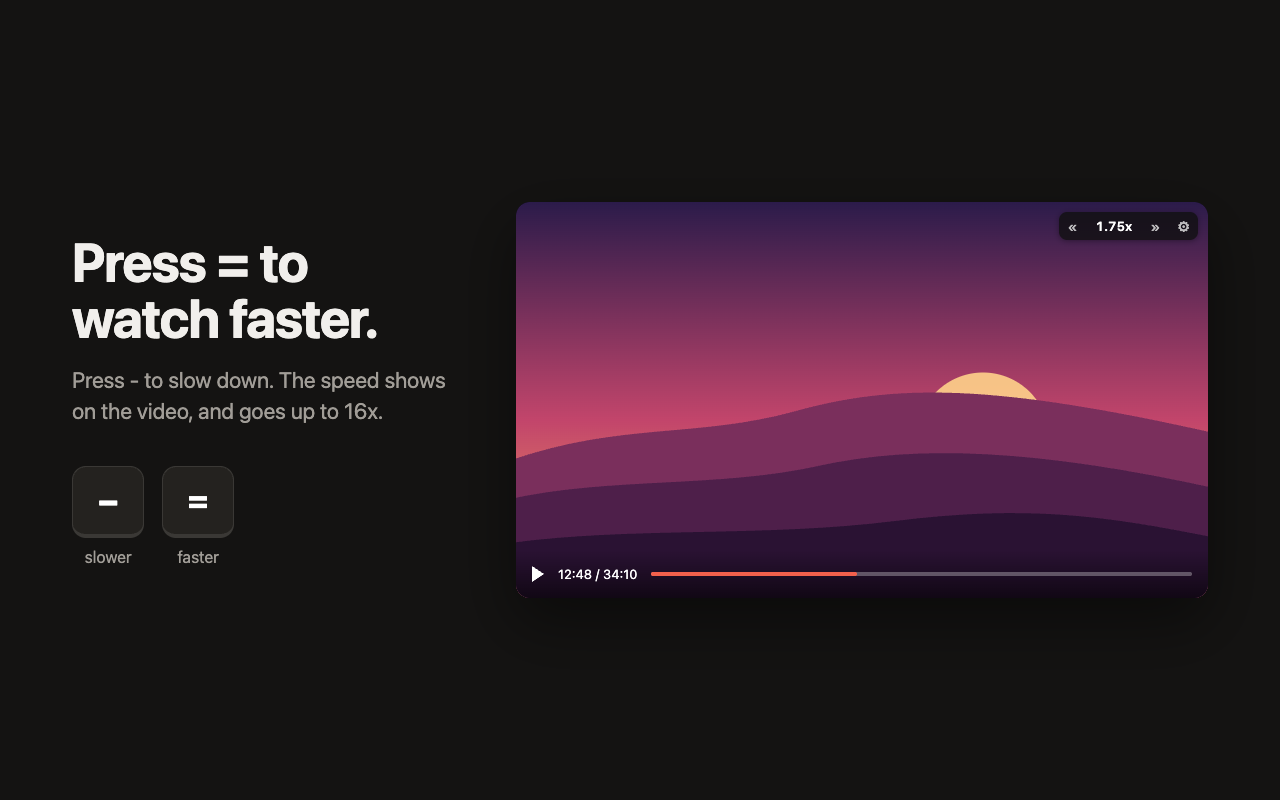
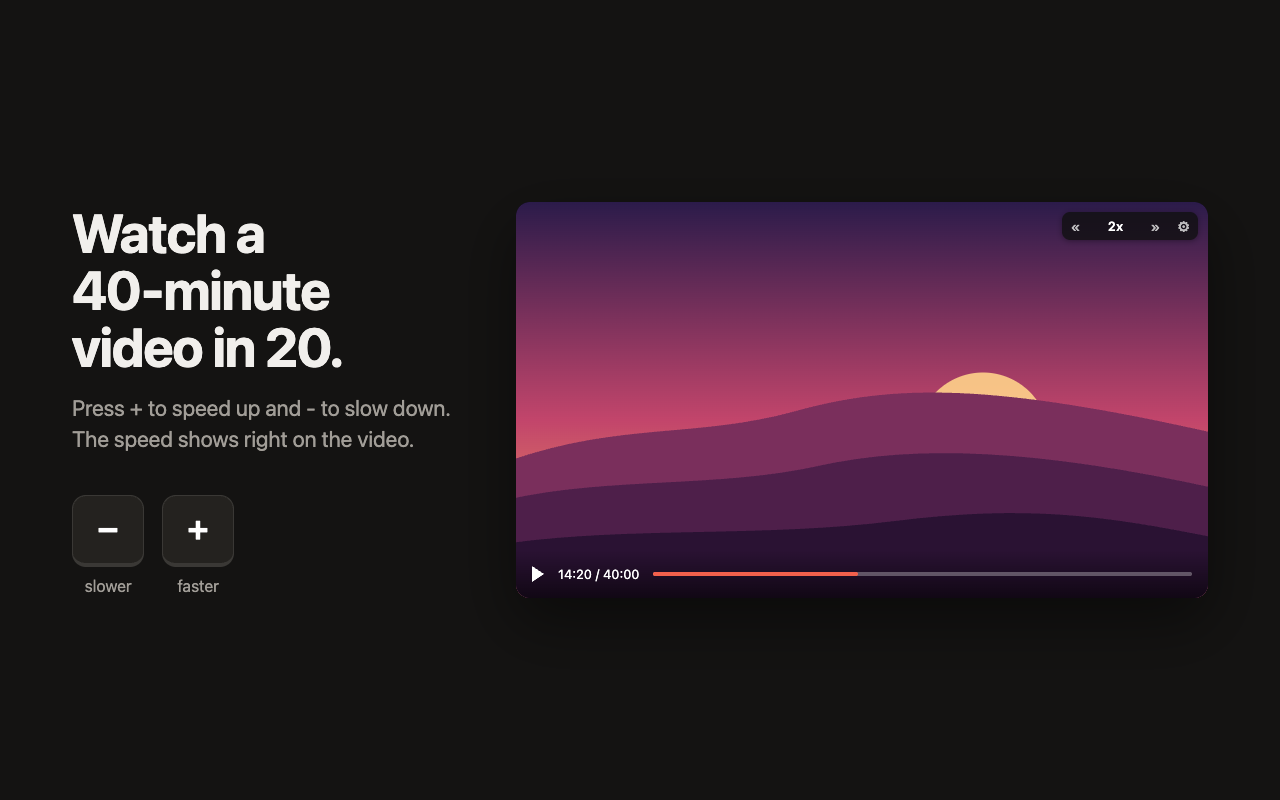
docs: rewrite the store copy and art around watching faster (#16)
* docs: rewrite the store copy and art around watching faster

Lead with the outcome ("watch videos in half the time") instead of the key, name the key as +,
make the time-saved total the proof in screenshot 2, and pitch working on sites with no speed
menu. Regenerate the screenshots and promo tile, and update the README and the copy notes.

* docs: address review of the store copy

Say two keys, not one. Drop "what people use it for" since there are no users to cite yet, call
the 0.25x step a default, and fix an orphaned word in screenshot 2.

---------

diff --git a/CHROMEWEBSTORE.md b/CHROMEWEBSTORE.md
@@ -1,6 +1,6 @@
 # Store listings: Video Speed Tool
 
-Last updated: 2026-10-24
+Last updated: 2026-10-27
 
 This file holds everything the Chrome Web Store and Firefox Add-ons (AMO) dashboards ask for. Both stores take the same package from `npm run build`.
 
@@ -18,17 +18,20 @@ This file holds everything the Chrome Web Store and Firefox Add-ons (AMO) dashbo
 
 ### Why this copy
 
-- The short description gives the two keys before anything else. Someone scanning search results learns how to use it before they install, so trying it takes no effort.
-- "Works on YouTube and every other site" answers the first question a YouTube user has, and widens the audience past YouTube in the same line.
-- "Up to 16x" is a number someone can check, instead of "fast" or "powerful".
-- The description explains the "all websites" permission before Chrome's install warning does. An unexplained broad permission is the most likely reason someone backs out of the install.
+- Lead with the outcome, not the key. People install this to get through a video faster, so "half the time" comes first and "one key" explains how. The key itself appears in the screenshots, where it reads as proof of how little effort it takes.
+- "A 40-minute lecture in 20" is a picture someone can check against their own watch list. It does more than "save time".
+- Name the key as +, the label on the key cap. Calling it = reads as a typo. The extension accepts it with or without Shift, so the copy never needs to explain Shift beyond one line.
+- The time-saved total is the strongest proof the product offers, and it's a number the reader will watch grow. Screenshot 2 leads with it instead of with the settings.
+- "Even on sites with no speed menu" names the gap the browser leaves. On YouTube, people already have a slower way, the menu. Elsewhere they often have none.
+- "Free, no tracking" sits in the short description because a broad-permission extension has to earn trust before Chrome's install warning appears. The description repeats it, then explains the "all websites" permission in plain words.
 - "Audio may cut out above 4x" admits a limit up front. Saying it first beats a one-star review that says it later.
-- "YouTube" appears only as the place where it works. It's never in the name or the icon, and the screenshots use made-up players. Store policy flags names and art that suggest a partnership with another brand.
+- "YouTube" appears only as a place where it works. It's never in the name or the icon, and the screenshots use made-up players. Store policy flags names and art that suggest a partnership with another brand.
+- No ratings, user counts or testimonials yet. Add real ones once the listings have them. Don't invent them.
 
 Alternatives for the short description, if the first one tests poorly:
 
-- "Speed up any video with one key: = goes faster, - goes slower. Up to 16x, on YouTube and every other site." Leads with the outcome instead of the action.
-- "Watch videos faster with one key. Press = to speed up and - to slow down, on YouTube and every site with video." Softer, with no number.
+- "Finish a 40-minute lecture in 20. One key speeds up any video, on YouTube and every other site. Free, no tracking." More concrete, aimed at students.
+- "Get through long videos faster. Press + to speed up any video on YouTube or any other site, up to 16x. Free, no tracking." Names the key for people who search by how it works.
 
 ## Graphics
 
@@ -37,9 +40,9 @@ All files are in `store/`. Regenerate them with `npm run store-assets` (screensh
 | Asset | Size | File | Store |
 |---|---|---|---|
 | Store icon | 128x128, 96x96 artwork with transparent padding | `store/icon-128.png` | Chrome |
-| Screenshot 1: the keys and the control | 1280x800 | `store/screenshot-1.png` | Both |
-| Screenshot 2: the settings page | 1280x800 | `store/screenshot-2.png` | Both |
-| Screenshot 3: a course site, speed-only control at the bottom left | 1280x800 | `store/screenshot-3.png` | Both |
+| Screenshot 1: "Watch a 40-minute video in 20", the keys and the control at 2x | 1280x800 | `store/screenshot-1.png` | Both |
+| Screenshot 2: "See the hours you've saved", the settings page | 1280x800 | `store/screenshot-2.png` | Both |
+| Screenshot 3: "Even on sites with no speed menu", a course site with a speed-only control | 1280x800 | `store/screenshot-3.png` | Both |
 | Small promo tile | 440x280 | `store/promo-440x280.png` | Chrome |
 
 Firefox takes its icon from the package, so it needs no separate upload.
@@ -90,7 +93,7 @@ Settings go through Chrome's own sync to the user's own account. The developer n
 
 Both stores have a field for this. Paste:
 
-> No build step: the uploaded files are the source. To test, open any page with a video, for example a YouTube video, and press = and - to change the speed. Hover over the video to see the speed control. Click the toolbar icon to open the settings.
+> No build step: the uploaded files are the source. To test, open any page with a video, for example a YouTube video, and press + and - to change the speed. Hover over the video to see the speed control. Click the toolbar icon to open the settings.
 
 ## Known issues and review risks
 

diff --git a/README.md b/README.md
@@ -1,9 +1,10 @@
 # Video Speed Tool
 
-A Chrome and Firefox extension for changing playback speed on YouTube and any other HTML5 video.
+Watch videos in half the time. A Chrome and Firefox extension that puts playback speed on two
+keys, + and -, on YouTube and every other site with an HTML5 video, including ones with no speed menu.
 It's a clone of [Youtube Playback Speed Control](https://chromewebstore.google.com/detail/youtube-playback-speed-co/hdannnflhlmdablckfkjpleikpphncik).
 
-- `=` speeds up and `-` slows down, no Shift needed. Both keys can be rebound, and the step defaults to 0.25.
+- `+` speeds up and `-` slows down, with or without Shift. Both keys can be rebound, and the step defaults to 0.25.
 - A small `« 1x » ⚙` control sits on the video. Click the speed to reset it.
 - The control can show on hover, always, or never. The speed buttons and the gear can each be turned off, leaving just the speed. It has six positions and an optional fade.
 - The options page shows how much time watching faster has saved you.
